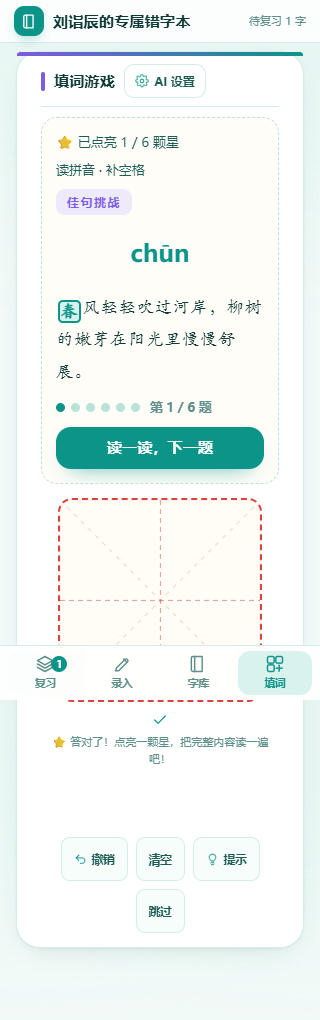
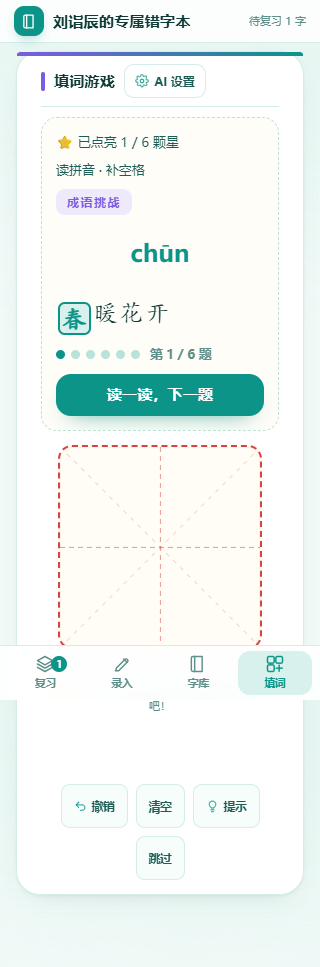
自动上传: 2026-11-11 15:32 更新 8 个文件

diff --git a/index.html b/index.html
@@ -11956,8 +11956,8 @@ async function aiTest(){
     if(($('aiKey').value || '').trim()) aiSave();
   }catch(e){
     toast('连接失败：' + ((e && e.message) || '网络错误'));
+    AI.key = old;
   }
-  AI.key = old;
   saveAi();
   btn.disabled = false;
   btn.textContent = label;

diff --git a/world-correct.html b/world-correct.html
@@ -11956,8 +11956,8 @@ async function aiTest(){
     if(($('aiKey').value || '').trim()) aiSave();
   }catch(e){
     toast('连接失败：' + ((e && e.message) || '网络错误'));
+    AI.key = old;
   }
-  AI.key = old;
   saveAi();
   btn.disabled = false;
   btn.textContent = label;

diff --git a/README.md b/README.md
@@ -13,7 +13,9 @@
 
 ## 填词游戏
 
-独立「填词游戏」Tab。配置自己的 DeepSeek API Key，选取字库生字，生成 3 个词语、3 个成语、3 个佳句。每项挖去目标生字的全部出现位置，支持键盘输入或手写识别后选择确认。答对或跳过后展示完整内容，点「读一读，下一题」继续；完成后回顾全部素材。
+独立「填词游戏」Tab。配置自己的 DeepSeek API Key，进入后自动出题，不需要选择生字。系统从字库搭配最多三个生字，组成 3 道成语、3 道佳句挑战，根据拼音提示补全空格。支持键盘输入或手写识别后选择确认；答对点亮星星，读完完整内容再点「读一读，下一题」。完成后回顾全部素材，可再次挑战。
+
+录入生字后通过 DeepSeek 自动生成三句例句，也可点击「AI 造句」重新生成。生成期间切换生字会丢弃旧请求；手动修改过的例句不会被迟到的返回覆盖。未配置 Key 或请求失败时显示提示，仍可手动录入并保存。
 
 提示词要求素材包含目标字，佳句优美、积极、具有画面感与科普或文学色彩，15～30 个汉字，适合硬笔练习。客户端验证数量、去重、包含关系和长度；不足会重试，仍不合格则提示换字，避免为了数量生造成语。AI 内容仍建议家长陪同阅读。生成题目缓存在本机。
 
